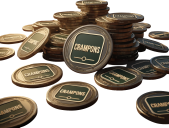
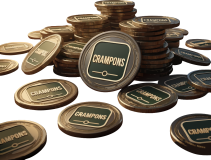
Les jetons grandissent encore d'un quart
Mehdi : « un peu plus grand encore ». Le facteur passe de 1,4 à 1,75 pour
les piles et de 1,15 à 1,45 pour le jeton seul — à 14 px d'appel, la pile
mesure désormais 33 × 25 au lieu de 26 × 20.

Les sources repassent de 128 à 160 px de haut pour suivre : l'emplacement
le plus grand du site demande 56 px majorés, soit 98, et il faut le double
dessus sur un écran dense. 140 Ko pour les trois.

diff --git a/src/components/Jeton.tsx b/src/components/Jeton.tsx
@@ -22,9 +22,10 @@ import { JETON, POINT } from '../lib/jeu'
  * chemins, de 0,8 à 1,8 Mo pièce — cinq mégaoctets à eux quatre, pour un
  * site dont tout le JavaScript pèse 348 Ko. Un tracé automatique de photo
  * n'est pas un dessin vectoriel, c'est une photo dans un emballage coûteux.
- * Ils sont donc rendus une fois à 128 px de haut, rognés au plus juste sur
- * leur encre — aucune marge, l'image touche ses quatre bords : 100 Ko pour
- * les trois, nets jusqu'à 64 px d'affichage.
+ * Ils sont donc rendus une fois à 160 px de haut, rognés au plus juste sur
+ * leur encre — aucune marge, l'image touche ses quatre bords : 140 Ko pour
+ * les trois, nets jusqu'à 80 px d'affichage, ce qui couvre l'emplacement le
+ * plus grand du site (56 px majorés, soit 98).
  *
  * ── LE JETON CRAMPON SEUL MANQUE ENCORE ──────────────────────────────────
  * Son fichier est le seul des quatre à n'avoir pas été détouré : le décor
@@ -56,14 +57,15 @@ type Variante = 'pile' | 'seul'
  * commande, et la largeur suit.
  *
  * `facteur` rattrape le reste. À 13 px de haut une pile de trente pièces
- * n'est qu'une bavure ; à dix-huit elle se lit. Le jeton seul, lui, tient
- * déjà à onze — il ne prend qu'un rattrapage de politesse pour ne pas
- * paraître chétif à côté d'une pile.
+ * n'est qu'une bavure ; il lui faut plus du double pour exister à côté
+ * d'un chiffre. Relevé deux fois à l'œil de Mehdi — 1,4 ne suffisait pas
+ * encore — et arrêté à 1,75 pour les piles, 1,45 pour le jeton seul, qui
+ * part d'un visuel déjà lisible à onze pixels.
  */
 const IMAGES: Partial<Record<`${Type}-${Variante}`, { src: string; rapport: number; facteur: number }>> = {
-  'crampon-pile': { src: '/jetons/crampons-pile.png', rapport: 1.321, facteur: 1.4 },
-  'pressing-pile': { src: '/jetons/pressings-pile.png', rapport: 1.247, facteur: 1.4 },
-  'pressing-seul': { src: '/jetons/pressings-jeton.png', rapport: 0.944, facteur: 1.15 },
+  'crampon-pile': { src: '/jetons/crampons-pile.png', rapport: 1.321, facteur: 1.75 },
+  'pressing-pile': { src: '/jetons/pressings-pile.png', rapport: 1.247, facteur: 1.75 },
+  'pressing-seul': { src: '/jetons/pressings-jeton.png', rapport: 0.944, facteur: 1.45 },
   // 'crampon-seul' : en attente du fichier détouré (voir l'en-tête).
 }
 
